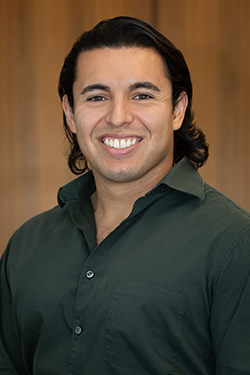
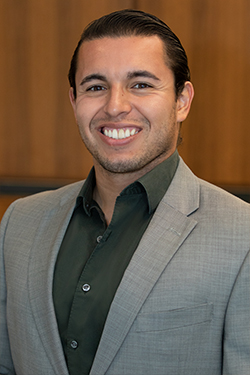
added additional headshots, still missing a few

diff --git a/frontend/components/team-page/headshots.js b/frontend/components/team-page/headshots.js
@@ -99,7 +99,7 @@ class Headshots extends Component {
           first_name: "Jacob",
           last_name: "Krushall",
           position: "Senior Recruiter",
-          img: ""
+          img: "/static/images/team-page/headshots/jacob-krushall.jpg"
         },
         {
           first_name: "Patrick",
@@ -213,19 +213,19 @@ class Headshots extends Component {
           first_name: "Dan",
           last_name: "Barzottini",
           position: "Business Development Manager",
-          img: ""
+          img: "/static/images/team-page/headshots/dan-barzottini.jpg"
         },
         {
           first_name: "Valerie",
           last_name: "Crisp",
           position: "Business Development Manager",
-          img: ""
+          img: "/static/images/team-page/headshots/valerie-crisp.jpg"
         },
         {
           first_name: "Ryan",
           last_name: "Rapaport",
           position: "Business Development Manager",
-          img: ""
+          img: "/static/images/team-page/headshots/ryan-rapaport.jpg"
         },
         {
           first_name: "Max",
@@ -237,7 +237,7 @@ class Headshots extends Component {
           first_name: "Chris",
           last_name: "Morgan",
           position: "Recruiter",
-          img: ""
+          img: "/static/images/team-page/headshots/chris-morgan.jpg"
         },
         {
           first_name: "Stacey",
@@ -249,7 +249,7 @@ class Headshots extends Component {
           first_name: "Kelsey",
           last_name: "Barton",
           position: "Recruiter",
-          img: ""
+          img: "/static/images/team-page/headshots/kelsey-barton.jpg"
         },
         {
           first_name: "Neal",
@@ -273,55 +273,61 @@ class Headshots extends Component {
           first_name: "Corey",
           last_name: "Van Oordt",
           position: "Recruiter",
-          img: ""
+          img: "/static/images/team-page/headshots/corey-vanoordt.jpg"
         },
         {
           first_name: "Chas",
           last_name: "Fricke",
           position: "Software Developer",
-          img: ""
+          img: "/static/images/team-page/headshots/chas-fricke.jpg"
         },
         {
           first_name: "Cody",
           last_name: "Powell",
           position: "Recruiter",
-          img: ""
+          img: "/static/images/team-page/headshots/cody-powell.jpg"
         },
         {
           first_name: "Julie",
           last_name: "Shinners",
           position: "Business Development Manager",
-          img: ""
+          img: "/static/images/team-page/headshots/julie-shinners.jpg"
         },
         {
           first_name: "Emily",
           last_name: "Bryan",
           position: "Client Success Manager",
-          img: ""
+          img: "/static/images/team-page/headshots/emily-bryan.jpg"
         },
         {
           first_name: "Jessica",
           last_name: "Barrett",
           position: "People Ops Manager",
-          img: ""
+          img: "/static/images/team-page/headshots/jessica-barrett.jpg"
         },
         {
           first_name: "Romy",
           last_name: "Altdorffer",
           position: "Recruiter",
-          img: ""
+          img: "/static/images/team-page/headshots/romy-altdorffer.jpg"
         },
         {
           first_name: "Brandon",
           last_name: "Henderson",
           position: "Event Manager",
-          img: ""
+          img: "/static/images/team-page/headshots/brandon-henderson.jpg"
         },
         {
           first_name: "Hayley",
           last_name: "Johnston",
           position: "Recruiter",
-          img: ""
+          img: "/static/images/team-page/headshots/hayley-johnston.jpg"
+        },
+        {
+          first_name: "Jonathan",
+          last_name: "Burnett",
+          position: "Recruiter",
+          img: "/static/images/team-page/headshots/jonathan-burnett.jpg"
         },
         {
           first_name: "Sarah",
